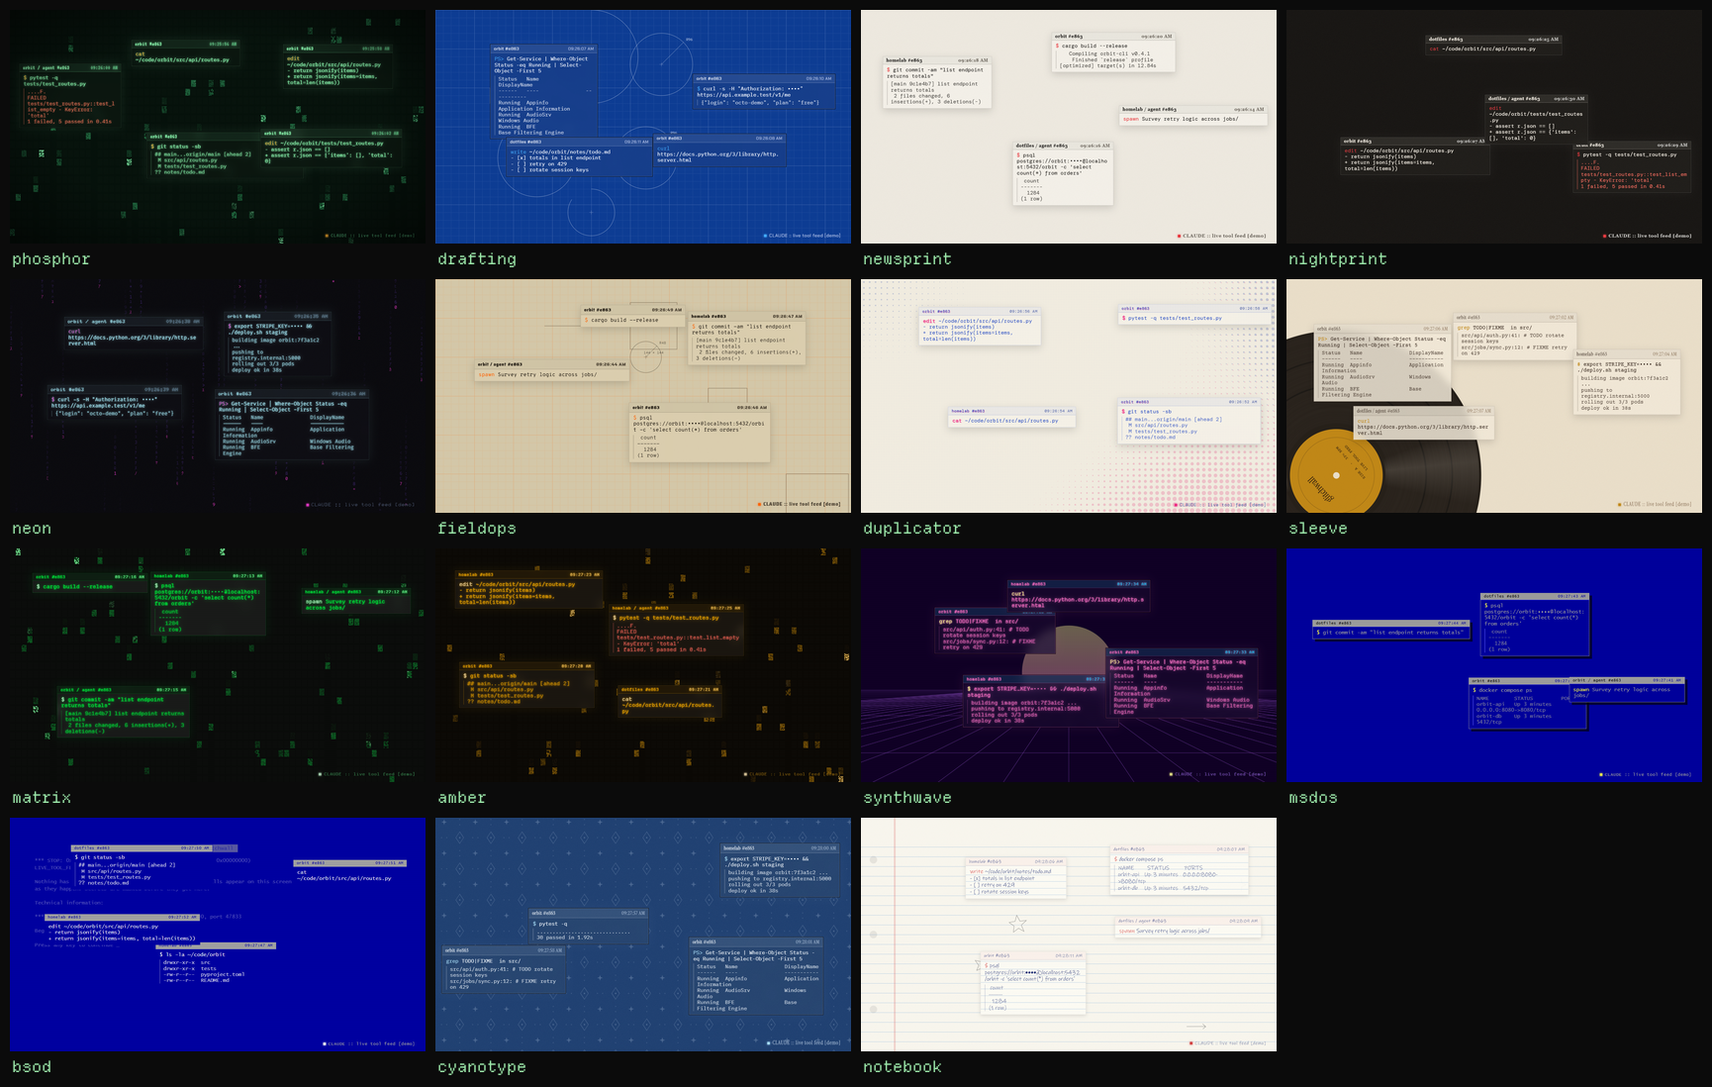
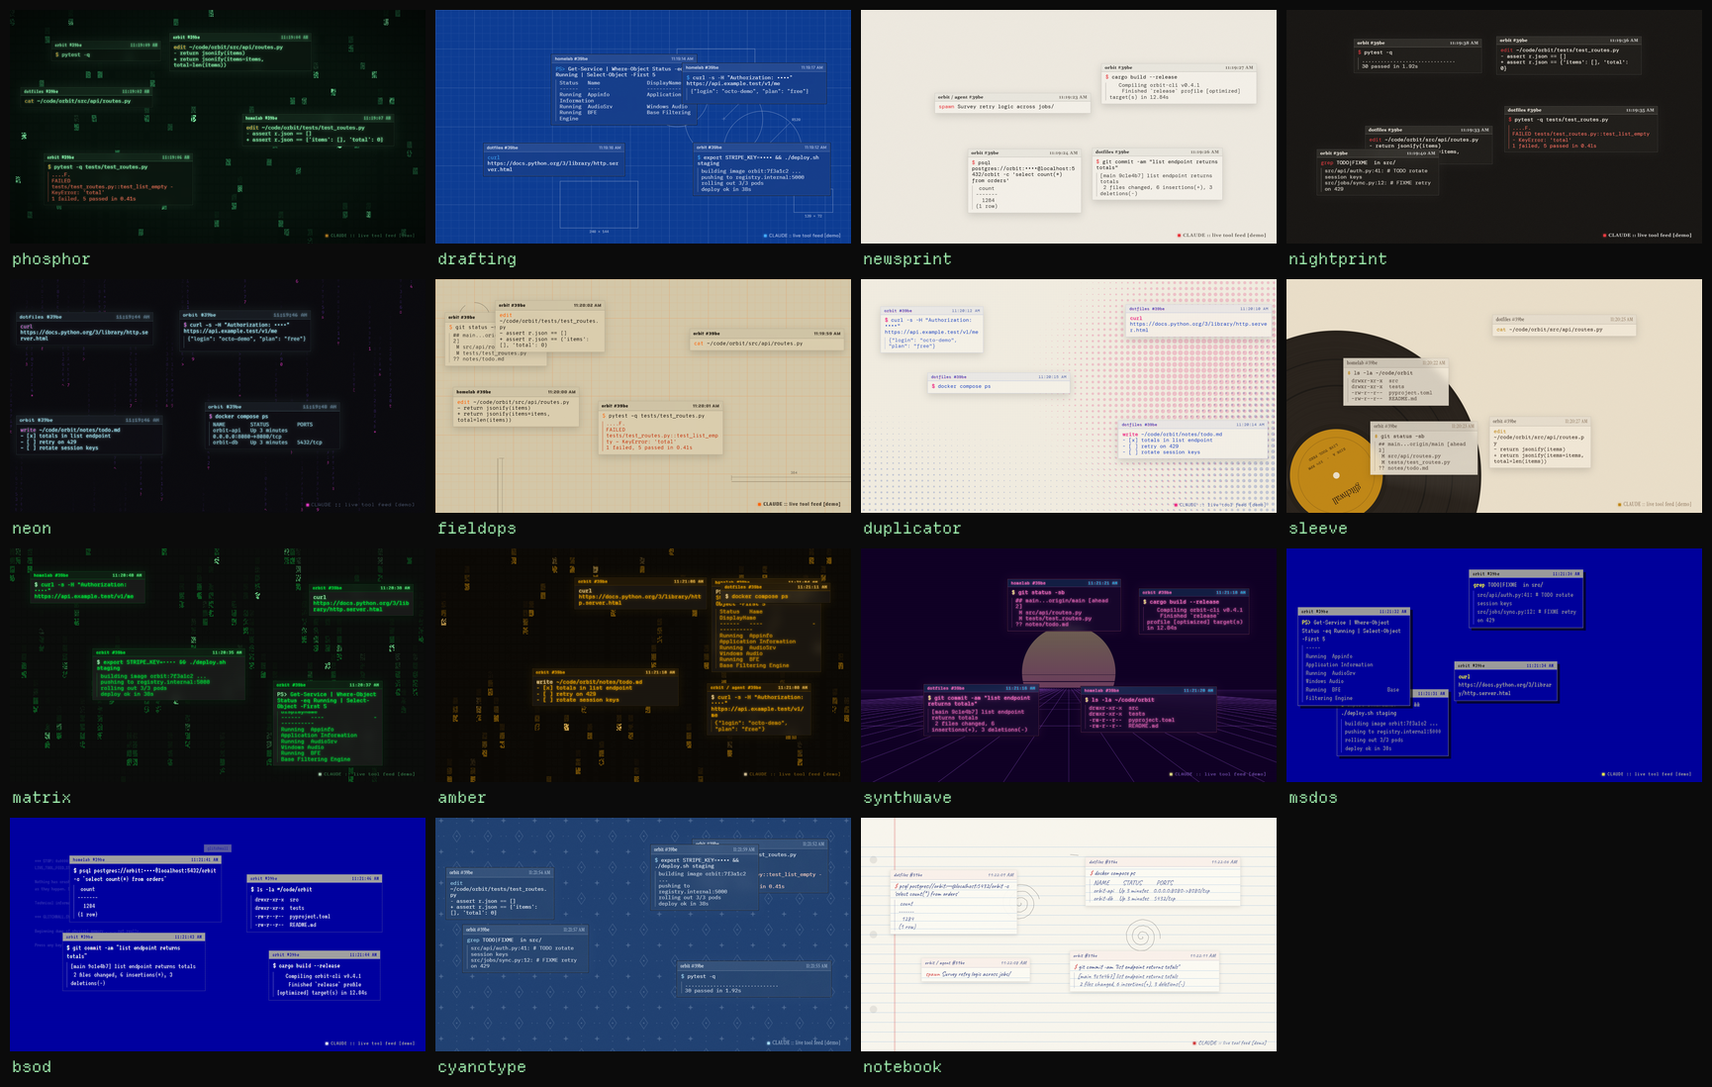
Pre-launch polish: cards stop piling up, new gallery and demo
- Placement measures live cards by layout size (offset*), not
  getBoundingClientRect, which an entry animation shrinks; a card that
  has only its command so far counts as at least 160px tall
- README: "Up close" gallery, 12 full-size shots from ambient mode
  (tools/screenshots.py), replacing the thin "More screenshots"
- demo.gif now walks through phosphor, sleeve, drafting and neon,
  with a palette per theme; themes.png rebuilt
- Ambient: matching migration numbers, narrower pods table
- Dev tools kill headless Edge by its temp profile: Edge's launcher
  exits at once, so terminate() left hundreds of renderers running

diff --git a/src/glitchwall/wallpaper/index.html b/src/glitchwall/wallpaper/index.html
@@ -44,6 +44,9 @@
   .body { padding:8px 12px 10px; font-size:calc(16px * var(--mscale)); line-height:1.15; overflow:hidden; display:flex; flex-direction:column; justify-content:flex-end;
           background-image:var(--rules); background-position:0 8px; }
   .cmd, .out, .err { white-space:pre-wrap; word-break:break-word; }
+  /* a tall card keeps its command; long output shrinks and shows its newest lines (typeInto scrolls it) */
+  .cmd { flex-shrink:0; max-height:calc(16px * var(--mscale) * 1.15 * 9); overflow:hidden; }
+  .out, .err { min-height:calc(16px * var(--mscale) * 1.15 * 2); overflow:hidden; }
   .cmd, .out { color:var(--g); text-shadow:var(--glow); }
   .cmd .p { color:var(--l); }
   .cmd .p, .bar b { text-shadow:var(--ghost); }   /* the riso misprint, on bold bits only: doubled small type reads as blur */
@@ -169,7 +172,7 @@ const THEMES = {
   // the old blue screen: white VGA text straight on blue, a grey title chip, a stop screen behind
   bsod:       { mode:'dark',  bg:'#0000AA', surface:'#0000AA', ink:'#FFFFFF', muted:'#AAAAAA', faint:'#5555FF', acc:'#FFFFFF', acc2:'#AAAAAA', err:'#FFFF55',
                 display:'vt323', mono:'vt323', grain:0, texture:'scan', scan:.12, rain:'stop', dim:'#AAAAAA', hi:'#FFFFFF', solid:1,
-                bar:'#AAAAAA', barfg:'#0000AA', barb:'#0000AA', edge:'rgba(0,0,0,0)', shadow:'none', filter:'none', line:'rgba(255,255,255,.35)' },
+                bar:'#AAAAAA', barfg:'#0000AA', barb:'#0000AA', edge:'rgba(170,170,170,.45)', shadow:'none', filter:'none', line:'rgba(255,255,255,.35)' },
   // blueprint's older cousin: a sun print in Prussian blue, paper grain, pale cyan
   cyanotype:  { mode:'dark',  bg:'#14376b', surface:'#1a4179', ink:'#eaf1f8', muted:'#a9bfd9', faint:'#6f8fb8', acc:'#9fd8f5', acc2:'#ffffff', err:'#ffd0c0',
                 display:'serif', mono:'plex', grain:.35, texture:'none', rain:'print', dim:'#a9bfd9', hi:'#eaf1f8', solid:.7 },
@@ -716,7 +719,7 @@ const STYLES = {
       const title = ' glitchwall ', tw = cx.measureText(title).width;
       cx.globalAlpha = .55; cx.fillStyle = T.muted; cx.fillRect(W / 2 - tw / 2 - 4, y - 4, tw + 8, fs + 8);
       cx.fillStyle = T.bg; cx.fillText(title, W / 2 - tw / 2, y);
-      y += fs * 2.4; cx.fillStyle = T.ink; cx.globalAlpha = .3;
+      y += fs * 2.4; cx.fillStyle = T.ink; cx.globalAlpha = .17;   // faint, so cards on top stay readable
       for (const l of this.lines) { cx.fillText(l, x, y); y += fs * 1.35; }
       cx.fillText('Press any key to continue ' + (this.on ? '_' : ' '), x, y);
       cx.globalAlpha = 1;
@@ -818,17 +821,23 @@ let z = 10;
 function place(card) {
   const w = Math.round(innerWidth * (0.24 + Math.random() * 0.14));
   card.style.width = w + 'px';
-  const h = Math.min(innerHeight * 0.42, 260);
+  const h = Math.min(innerHeight * 0.42, 220);
   let best = null, bestHit = Infinity;
-  for (let k = 0; k < 16; k++) {
-    const x = 16 + Math.random() * (innerWidth - w - 32), y = 64 + Math.random() * (innerHeight - h - 100);
+  // live cards by their real size (plus a gap), so blocks sit side by side instead of on top of each other
+  // offset* is layout size: unlike getBoundingClientRect it is not shrunk by a card's entry animation (scale/clip)
+  // and at least 160px tall: a card that only has its command so far grows when the tool output arrives
+  const rects = open.map(o => ({ x: o.offsetLeft - 14, y: o.offsetTop - 14, w: o.offsetWidth + 28, h: Math.max(o.offsetHeight, 160) + 28 }));
+  for (let k = 0; k < 80; k++) {
+    const x = 16 + Math.random() * (innerWidth - w - 32), y = 64 + Math.random() * (innerHeight - h - 120);
     let hit = 0;
-    open.forEach(o => { const r = o._rect; if (!r) return;
+    rects.forEach(r => {
       hit += Math.max(0, Math.min(x + w, r.x + r.w) - Math.max(x, r.x)) * Math.max(0, Math.min(y + h, r.y + r.h) - Math.max(y, r.y)); });
     if (hit < bestHit) { bestHit = hit; best = { x, y }; }
+    if (!hit) break;
   }
   card._rect = { x: best.x, y: best.y, w, h };
   card.style.left = best.x + 'px'; card.style.top = best.y + 'px'; card.style.zIndex = ++z;
+  card.style.maxHeight = Math.min(innerHeight * 0.42, innerHeight - best.y - 52) + 'px';   // never grows over the corner label
 }
 function kill(card) {
   if (!card || card._dead) return; card._dead = true;
@@ -854,9 +863,10 @@ const byRef = new Map();        // tool call id -> its card
 function typeInto(el, text, cps, done) {
   const node = document.createTextNode(''); el.appendChild(node); el.classList.add('cur');
   let i = 0;
-  if (STILL) { node.data = text; el.classList.remove('cur'); return setTimeout(done, 0); }
+  if (STILL) { node.data = text; el.classList.remove('cur'); el.scrollTop = el.scrollHeight; return setTimeout(done, 0); }
   const step = () => {
     node.data = text.slice(0, i += Math.max(1, Math.round(cps / 60)));
+    el.scrollTop = el.scrollHeight;
     if (i < text.length) requestAnimationFrame(step); else { el.classList.remove('cur'); done(); }
   };
   setTimeout(step, 260);   // let the glitch-in land first

diff --git a/tools/record_demo.py b/tools/record_demo.py
@@ -4,7 +4,7 @@ Dev-only helper, not part of the package. Needs Pillow and websockets:
     uv run --no-project --with pillow --with websockets python tools/record_demo.py
 
 It starts `glitchwall demo` on a spare port, opens it in a headless browser via the
-DevTools protocol, screenshots it in real time and writes an optimized GIF.
+DevTools protocol, screenshots a few themes in turn in real time and writes an optimized GIF.
 """
 from __future__ import annotations
 
@@ -28,7 +28,8 @@ ROOT = Path(__file__).resolve().parents[1]
 DEMO_PORT, CDP_PORT = 47840, 9333
 W, H = 1280, 720          # browser viewport
 OUT_W = 880               # GIF width
-WARMUP, SECONDS, FPS = 7.0, 14.0, 12
+WARMUP, SECONDS, FPS = 6.0, 6.0, 12   # per theme: let cards build up unrecorded, then record
+THEMES = ["phosphor", "sleeve", "drafting", "neon"]   # a spread, not all fifteen
 
 
 def browser() -> str:
@@ -40,7 +41,26 @@ def browser() -> str:
     sys.exit("no Edge/Chrome/Chromium found")
 
 
-async def record(ws_url: str) -> list[tuple[Image.Image, float]]:
+def stop(proc: subprocess.Popen, profile: str | None = None) -> None:
+    """Stop a process and everything it started. Edge's launcher hands off to a new process and exits,
+    so for the browser also kill every process using our throwaway profile; otherwise a few runs leave
+    hundreds of headless renderers behind (that once slowed a whole PC to a crawl)."""
+    if proc.poll() is None:
+        proc.terminate()
+        try:
+            proc.wait(timeout=10)
+        except subprocess.TimeoutExpired:
+            proc.kill()
+    if profile and os.name == "nt":
+        ps = ("Get-CimInstance Win32_Process | Where-Object { $_.CommandLine -and $_.CommandLine.Contains($env:GW_PROFILE) }"
+              " | ForEach-Object { Stop-Process -Id $_.ProcessId -Force -ErrorAction SilentlyContinue }")
+        subprocess.run(["powershell", "-NoProfile", "-Command", ps], env=dict(os.environ, GW_PROFILE=profile),
+                       stdout=subprocess.DEVNULL, stderr=subprocess.DEVNULL)
+    elif profile:
+        subprocess.run(["pkill", "-f", profile], stdout=subprocess.DEVNULL, stderr=subprocess.DEVNULL)
+
+
+async def record(ws_url: str) -> list[list[tuple[Image.Image, float]]]:
     async with websockets.connect(ws_url, max_size=64 * 1024 * 1024) as ws:
         n = 0
 
@@ -54,16 +74,19 @@ async def record(ws_url: str) -> list[tuple[Image.Image, float]]:
                     return msg.get("result", {})
 
         await call("Emulation.setDeviceMetricsOverride", width=W, height=H, deviceScaleFactor=1, mobile=False)
-        await call("Page.navigate", url=f"http://127.0.0.1:{DEMO_PORT}/")
-        await asyncio.sleep(WARMUP)
-        frames, t0, step = [], time.monotonic(), 1 / FPS
-        while time.monotonic() - t0 < SECONDS:
-            t = time.monotonic()
-            shot = await call("Page.captureScreenshot", format="png", fromSurface=True)
-            img = Image.open(io.BytesIO(base64.b64decode(shot["data"]))).convert("RGB")
-            frames.append((img, t))
-            await asyncio.sleep(max(0, step - (time.monotonic() - t)))
-        return frames
+        segments, step = [], 1 / FPS
+        for theme in THEMES:
+            await call("Page.navigate", url=f"http://127.0.0.1:{DEMO_PORT}/?theme={theme}")
+            await asyncio.sleep(WARMUP)
+            frames, t0 = [], time.monotonic()
+            while time.monotonic() - t0 < SECONDS:
+                t = time.monotonic()
+                shot = await call("Page.captureScreenshot", format="png", fromSurface=True)
+                img = Image.open(io.BytesIO(base64.b64decode(shot["data"]))).convert("RGB")
+                frames.append((img, t))
+                await asyncio.sleep(max(0, step - (time.monotonic() - t)))
+            segments.append(frames)
+        return segments
 
 
 def main() -> None:
@@ -84,21 +107,23 @@ def main() -> None:
                 time.sleep(0.2)
         else:
             sys.exit("browser did not start")
-        frames = asyncio.run(record(ws_url))
+        segments = asyncio.run(record(ws_url))
     finally:
-        br.terminate()
-        demo.terminate()
+        stop(br, prof)
+        stop(demo)
         shutil.rmtree(prof, ignore_errors=True)
 
     out_h = round(H * OUT_W / W)
-    small = [f.resize((OUT_W, out_h), Image.LANCZOS) for f, _ in frames]
-    durations = [max(20, round((frames[i + 1][1] - frames[i][1]) * 1000)) for i in range(len(frames) - 1)] + [1000 // FPS]
-    # one shared palette from a few sample frames keeps the GIF small and flicker-free
-    sample = Image.new("RGB", (OUT_W, out_h * 4))
-    for k, i in enumerate(range(0, len(small), max(1, len(small) // 4))[:4]):
-        sample.paste(small[i], (0, out_h * k))
-    pal = sample.quantize(colors=128, method=Image.Quantize.MEDIANCUT)
-    gif = [im.quantize(palette=pal, dither=Image.Dither.NONE) for im in small]
+    gif, durations = [], []
+    for frames in segments:
+        small = [f.resize((OUT_W, out_h), Image.LANCZOS) for f, _ in frames]
+        durations += [max(20, round((frames[i + 1][1] - frames[i][1]) * 1000)) for i in range(len(frames) - 1)] + [1000 // FPS]
+        # one palette per theme, from a few of its frames: small and flicker-free, and each theme keeps its colors
+        sample = Image.new("RGB", (OUT_W, out_h * 4))
+        for k, i in enumerate(range(0, len(small), max(1, len(small) // 4))[:4]):
+            sample.paste(small[i], (0, out_h * k))
+        pal = sample.quantize(colors=128, method=Image.Quantize.MEDIANCUT)
+        gif += [im.quantize(palette=pal, dither=Image.Dither.NONE) for im in small]
     out = ROOT / "docs" / "demo.gif"
     gif[0].save(out, save_all=True, append_images=gif[1:], duration=durations, loop=0, optimize=True, disposal=1)
     print(f"{out}  {len(gif)} frames  {out.stat().st_size / 1e6:.1f} MB")

diff --git a/tools/screenshots.py b/tools/screenshots.py
@@ -1,0 +1,105 @@
+"""The README's "More screenshots": a hand-picked set of themes and modes, 1600x900 JPEGs in docs/shots/.
+
+Dev-only helper, not part of the package. Runs the ambient demo (made-up sessions, nothing real).
+    uv run --no-project --with pillow --with websockets python tools/screenshots.py
+"""
+from __future__ import annotations
+
+import asyncio
+import base64
+import io
+import json
+import os
+import subprocess
+import sys
+import tempfile
+import time
+import urllib.request
+from pathlib import Path
+
+import websockets
+from PIL import Image
+
+sys.path.insert(0, str(Path(__file__).resolve().parent))
+from record_demo import browser, stop  # noqa: E402
+
+ROOT = Path(__file__).resolve().parents[1]
+OUT = ROOT / "docs" / "shots"
+DEMO_PORT, CDP_PORT = 47842, 9335
+W, H = 1600, 900         # roomy enough that 4 cards sit apart, small enough that the text reads in a README
+SETTLE = 16.0
+
+# (file name, URL query). Order is the order in the README.
+SHOTS = [
+    ("phosphor", "theme=phosphor"),
+    ("drafting", "theme=drafting"),
+    ("notebook", "theme=notebook"),
+    ("sleeve", "theme=sleeve"),
+    ("duplicator", "theme=duplicator"),
+    ("newsprint", "theme=newsprint"),
+    ("neon", "theme=neon"),
+    ("bsod", "theme=bsod"),
+    ("art-synthwave", "theme=synthwave&mode=art"),
+    ("art-starburst", "theme=sleeve&rain=starburst&mode=art"),
+    ("art-halftone", "theme=duplicator&mode=art"),
+    ("art-testcard", "theme=fieldops&rain=testcard&mode=art"),
+]
+
+
+async def shoot(ws_url: str) -> None:
+    async with websockets.connect(ws_url, max_size=64 * 1024 * 1024) as ws:
+        n = 0
+        errors: list[str] = []
+
+        async def call(method, **params):
+            nonlocal n
+            n += 1
+            await ws.send(json.dumps({"id": n, "method": method, "params": params}))
+            while True:
+                msg = json.loads(await ws.recv())
+                if msg.get("method") == "Runtime.exceptionThrown":
+                    errors.append(msg["params"]["exceptionDetails"].get("exception", {}).get("description", "?"))
+                if msg.get("id") == n:
+                    return msg.get("result", {})
+
+        await call("Runtime.enable")
+        await call("Emulation.setDeviceMetricsOverride", width=W, height=H, deviceScaleFactor=1, mobile=False)
+        for name, query in SHOTS:
+            errors.clear()
+            # ?still: cards type instantly and stay, so the screen fills up to the 4-card limit
+            await call("Page.navigate", url=f"http://127.0.0.1:{DEMO_PORT}/?still&{query}")
+            await asyncio.sleep(SETTLE if "mode=art" not in query else 6)
+            shot = await call("Page.captureScreenshot", format="png", fromSurface=True)
+            img = Image.open(io.BytesIO(base64.b64decode(shot["data"]))).convert("RGB")
+            p = OUT / f"{name}.jpg"
+            img.save(p, quality=88, optimize=True, progressive=True)
+            print(f"{name:14} {p.stat().st_size // 1024} KB" + (f"   ERRORS: {errors}" if errors else ""))
+
+
+def main() -> None:
+    OUT.mkdir(parents=True, exist_ok=True)
+    env = dict(os.environ, PYTHONPATH=str(ROOT / "src"), GLITCHWALL_HOME=tempfile.mkdtemp(prefix="gw-home-"))
+    demo = subprocess.Popen([sys.executable, "-m", "glitchwall", "demo", "--port", str(DEMO_PORT), "--pace", "0.3",
+                             "--mode", "ambient"], env=env, stdout=subprocess.DEVNULL, stderr=subprocess.DEVNULL)
+    prof = tempfile.mkdtemp(prefix="glitchwall-shots-")
+    br = subprocess.Popen([browser(), "--headless=new", f"--remote-debugging-port={CDP_PORT}", f"--user-data-dir={prof}",
+                           "--no-first-run", "--hide-scrollbars", f"--window-size={W},{H}", "about:blank"],
+                          stdout=subprocess.DEVNULL, stderr=subprocess.DEVNULL)
+    try:
+        for _ in range(50):
+            try:
+                pages = json.load(urllib.request.urlopen(f"http://127.0.0.1:{CDP_PORT}/json/list", timeout=1))
+                ws_url = next(p["webSocketDebuggerUrl"] for p in pages if p.get("type") == "page")
+                break
+            except Exception:
+                time.sleep(0.2)
+        else:
+            sys.exit("browser did not start")
+        asyncio.run(shoot(ws_url))
+    finally:
+        stop(br, prof)
+        stop(demo)
+
+
+if __name__ == "__main__":
+    main()

diff --git a/src/glitchwall/ambient.py b/src/glitchwall/ambient.py
@@ -120,8 +120,8 @@ def docker_deploy(p):
         ("$", f"docker build -t {p}:{tag} .", f"[+] Building {random.uniform(6, 50):.1f}s (14/14) FINISHED\n => exporting to image\n => naming to docker.io/library/{p}:{tag}", False),
         ("$", "docker compose up -d", f"[+] Running 3/3\n ✔ Container {p}-db-1     Healthy\n ✔ Container {p}-cache-1  Started\n ✔ Container {p}-api-1    Started", False),
         ("$", f"kubectl -n {p} rollout status deploy/{p}-api", f"Waiting for deployment \"{p}-api\" rollout to finish: {pods - 1} of {pods} updated replicas are available...\ndeployment \"{p}-api\" successfully rolled out", False),
-        ("$", f"kubectl -n {p} get pods", "NAME" + " " * 24 + "READY   STATUS    RESTARTS   AGE\n" + "\n".join(
-            f"{p}-api-{_h(9)}-{_h(5)}   1/1     Running   0          {random.randint(5, 90)}s" for _ in range(min(pods, 4))), False),
+        ("$", f"kubectl -n {p} get pods", "NAME          READY  STATUS   AGE\n" + "\n".join(
+            f"api-{_h(5)}-{_h(3)}  1/1    Running  {random.randint(5, 90)}s" for _ in range(min(pods, 3))), False),
         ("$", f"curl -s https://{random.choice(HOSTS)}/healthz", '{"status":"ok","db":"ok","version":"' + tag + '"}', False),
     ]
 
@@ -129,12 +129,13 @@ def docker_deploy(p):
 def sql_work(p):
     n = random.choice(NOUNS)
     c = random.randint(800, 250000)
+    mig = f"{random.randint(20, 80):04d}_{n}s_owner_idx.sql"   # the same file in every step
     return [
         ("$", f"psql -d {p} -c \"select count(*) from {n}s where created_at > now() - interval '7 days'\"", f" count\n-------\n {c:>5}\n(1 row)", False),
         ("$", f"psql -d {p} -c \"explain analyze select * from {n}s where owner_id = 42\"",
          f"Seq Scan on {n}s  (cost=0.00..{random.randint(1000, 9000)}.00 rows={random.randint(3, 40)})\nExecution Time: {random.uniform(40, 900):.3f} ms", False),
-        ("write", f"~/code/{p}/migrations/{random.randint(20, 80):04d}_{n}s_owner_idx.sql\nCREATE INDEX CONCURRENTLY {n}s_owner_idx\n    ON {n}s (owner_id);", "", False),
-        ("$", "make migrate", f"applying {random.randint(20, 80):04d}_{n}s_owner_idx.sql ... ok", False),
+        ("write", f"~/code/{p}/migrations/{mig}\nCREATE INDEX CONCURRENTLY {n}s_owner_idx\n    ON {n}s (owner_id);", "", False),
+        ("$", "make migrate", f"applying {mig} ... ok", False),
         ("$", f"psql -d {p} -c \"explain analyze select * from {n}s where owner_id = 42\"",
          f"Index Scan using {n}s_owner_idx on {n}s\nExecution Time: {random.uniform(.05, 2):.3f} ms", False),
     ]

diff --git a/tools/theme_gallery.py b/tools/theme_gallery.py
@@ -24,7 +24,7 @@ import websockets
 from PIL import Image, ImageDraw, ImageFont
 
 sys.path.insert(0, str(Path(__file__).resolve().parent))
-from record_demo import browser  # noqa: E402
+from record_demo import browser, stop  # noqa: E402
 
 ROOT = Path(__file__).resolve().parents[1]
 sys.path.insert(0, str(ROOT / "src"))
@@ -107,8 +107,8 @@ def main() -> None:
             sys.exit("browser did not start")
         shots = asyncio.run(shoot(ws_url, outdir))
     finally:
-        br.terminate()
-        demo.terminate()
+        stop(br, prof)
+        stop(demo)
     print(gallery(shots))
 
 

diff --git a/README.md b/README.md
@@ -131,6 +131,19 @@ customize panel has the same five dropdowns, and anything other than *Use glitch
 the command line. In a browser, URL parameters (`?theme=sleeve&rain=jukebox&transition=stamp`) win over both,
 and `?cycle=10` steps through every theme. The background slider sets how busy any background is (0 stills it).
 
+### Up close
+
+Full-size shots (click one to open it). They come from ambient mode, so every session in them is made up.
+
+<table>
+<tr><td><a href="docs/shots/phosphor.jpg"><img src="docs/shots/phosphor.jpg" alt="the phosphor look"></a><br><sub>phosphor</sub></td><td><a href="docs/shots/drafting.jpg"><img src="docs/shots/drafting.jpg" alt="the drafting look"></a><br><sub>drafting</sub></td></tr>
+<tr><td><a href="docs/shots/notebook.jpg"><img src="docs/shots/notebook.jpg" alt="the notebook look"></a><br><sub>notebook</sub></td><td><a href="docs/shots/sleeve.jpg"><img src="docs/shots/sleeve.jpg" alt="the sleeve look"></a><br><sub>sleeve</sub></td></tr>
+<tr><td><a href="docs/shots/duplicator.jpg"><img src="docs/shots/duplicator.jpg" alt="the duplicator look"></a><br><sub>duplicator</sub></td><td><a href="docs/shots/newsprint.jpg"><img src="docs/shots/newsprint.jpg" alt="the newsprint look"></a><br><sub>newsprint</sub></td></tr>
+<tr><td><a href="docs/shots/neon.jpg"><img src="docs/shots/neon.jpg" alt="the neon look"></a><br><sub>neon</sub></td><td><a href="docs/shots/bsod.jpg"><img src="docs/shots/bsod.jpg" alt="the bsod look"></a><br><sub>bsod</sub></td></tr>
+<tr><td><a href="docs/shots/art-synthwave.jpg"><img src="docs/shots/art-synthwave.jpg" alt="the synthwave, art mode look"></a><br><sub>synthwave, art mode</sub></td><td><a href="docs/shots/art-halftone.jpg"><img src="docs/shots/art-halftone.jpg" alt="the duplicator, art mode look"></a><br><sub>duplicator, art mode</sub></td></tr>
+<tr><td><a href="docs/shots/art-starburst.jpg"><img src="docs/shots/art-starburst.jpg" alt="the sleeve + starburst, art mode look"></a><br><sub>sleeve + starburst, art mode</sub></td><td><a href="docs/shots/art-testcard.jpg"><img src="docs/shots/art-testcard.jpg" alt="the fieldops + testcard, art mode look"></a><br><sub>fieldops + testcard, art mode</sub></td></tr>
+</table>
+
 ## Not a coder? 🌙
 
 You don't need Claude Code, or any code, to use glitchwall. Pick a mode:
@@ -281,6 +294,7 @@ uv build                                                             # wheel + s
 powershell -File packaging\build-exe.ps1                             # standalone Windows exes + zip (PyInstaller, build time only)
 uv run --no-project --with pillow --with websockets python tools/record_demo.py   # re-record docs/demo.gif
 uv run --no-project --with pillow --with websockets python tools/theme_gallery.py  # rebuild docs/themes.png
+uv run --no-project --with pillow --with websockets python tools/screenshots.py   # rebuild docs/shots/ (the "Up close" gallery)
 ```
 
 Stdlib only at runtime, Python 3.9+.
@@ -293,14 +307,6 @@ Stdlib only at runtime, Python 3.9+.
 | `src/glitchwall/themes.py` | theme, background and font names (the colors live in the page) |
 | `src/glitchwall/platforms.py` | Lively, autostart, background process, standalone exe |
 | `src/glitchwall/wallpaper/` | the page itself (`index.html?still` renders without animation, for screenshots) |
-
-<details>
-<summary>More screenshots</summary>
-
-![four tool calls on the wallpaper, one curl command with its Authorization header masked](docs/screenshot-1.png)
-![a git commit, a cargo build and an ls on the wallpaper](docs/screenshot-2.png)
-
-</details>
 
 ## Support ☕
 
